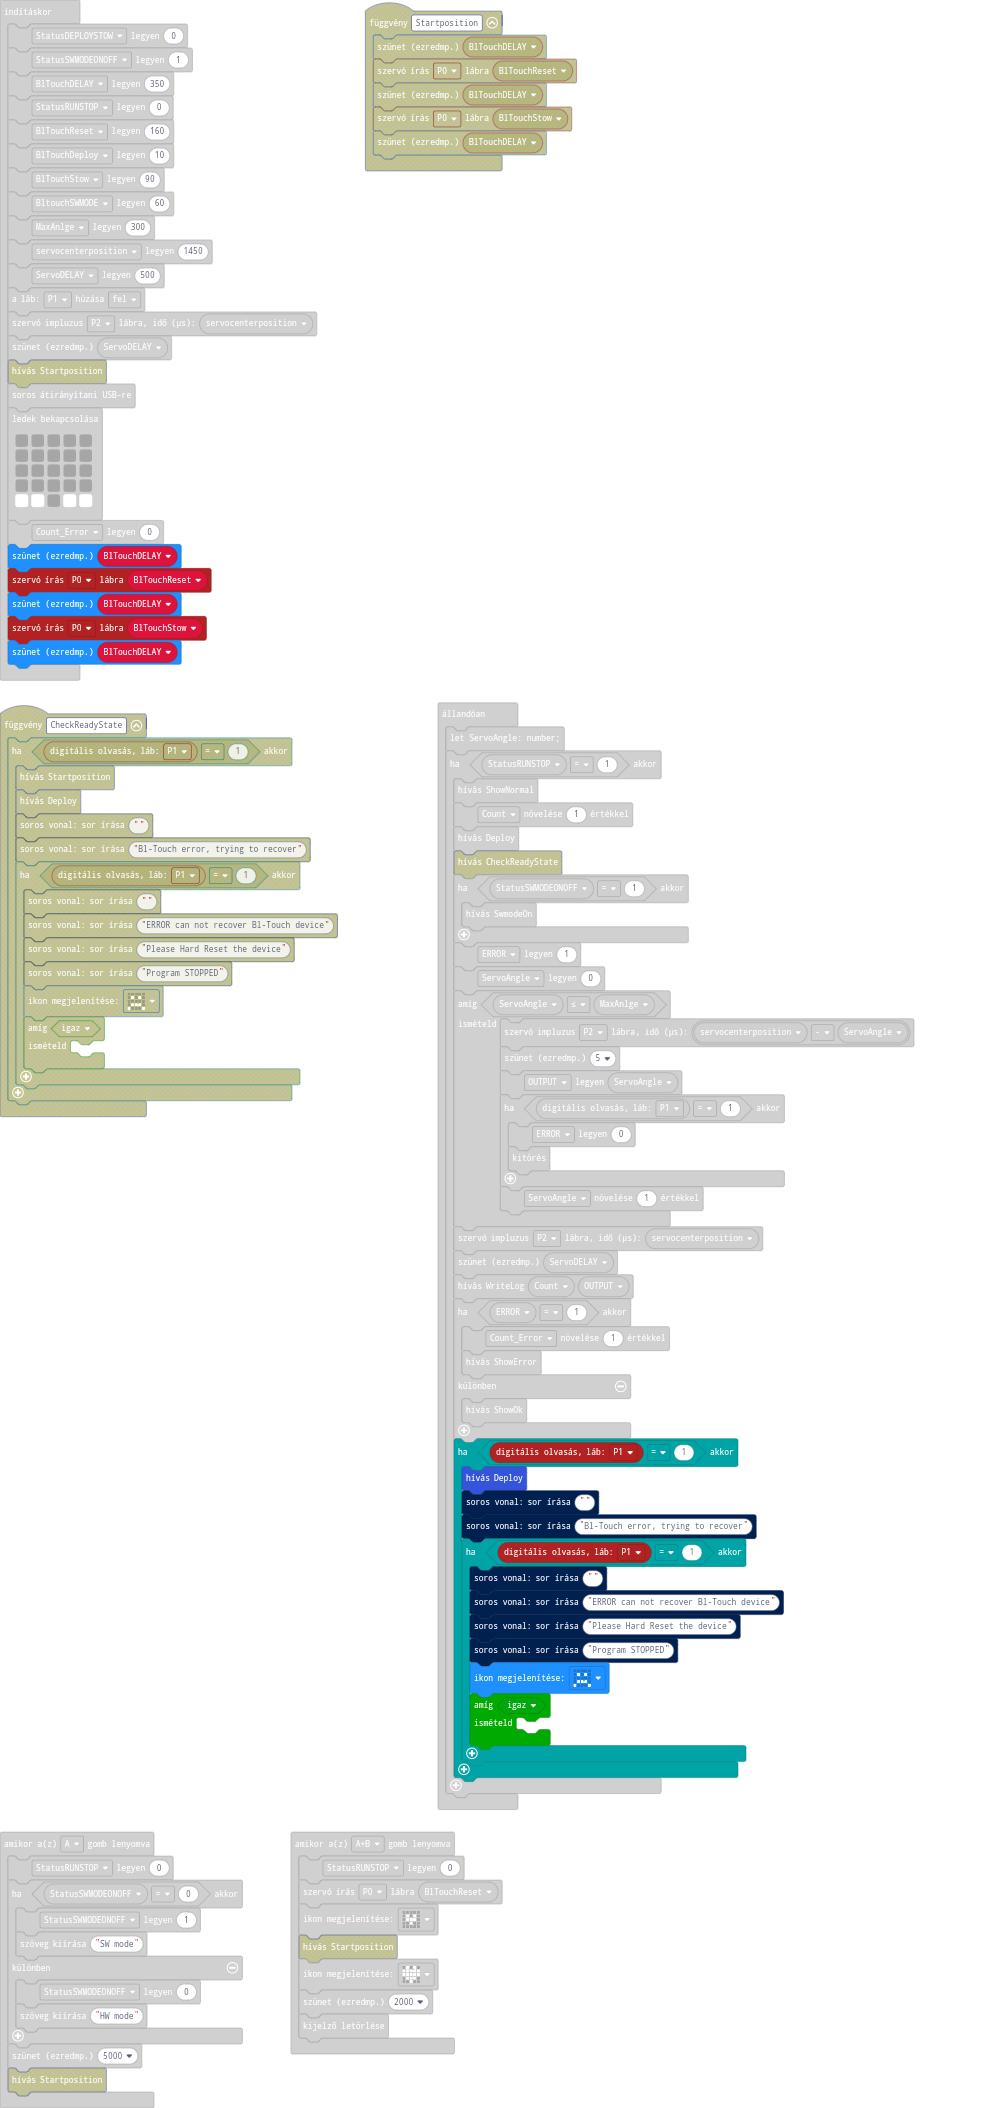
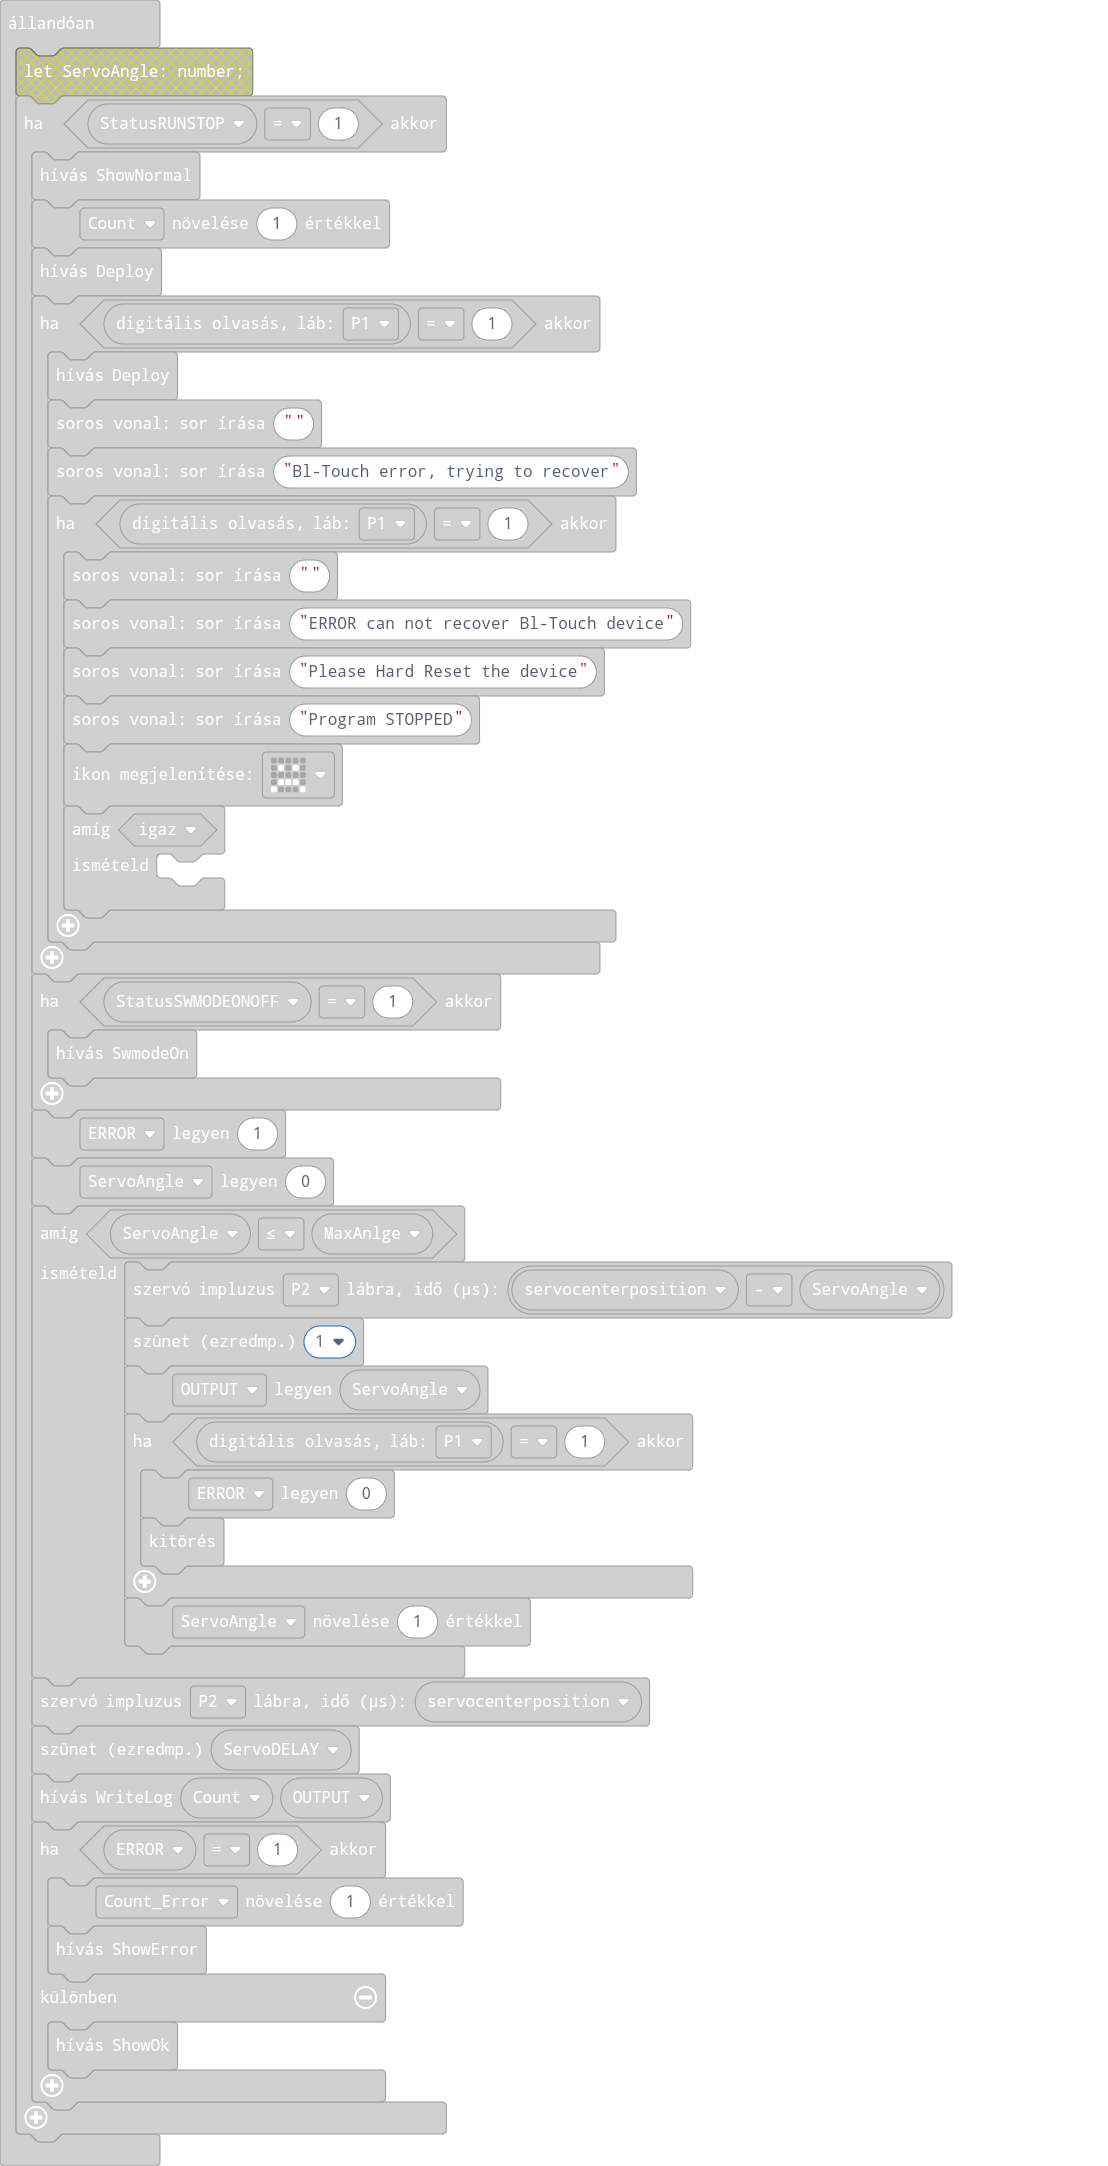
Update main.blocks, main.ts

diff --git a/main.ts b/main.ts
@@ -61,6 +61,7 @@ function WriteLog (Log_Line: number, Log_Angle: number) {
     serial.writeNumber(Log_Angle)
 }
 let OUTPUT = 0
+let ServoAngle = 0
 let ERROR = 0
 let Count = 0
 let Count_Error = 0
@@ -99,8 +100,7 @@ basic.showLeds(`
     `)
 Count_Error = 0
 basic.forever(function () {
-    let ServoAngle: number;
-if (StatusRUNSTOP == 1) {
+    if (StatusRUNSTOP == 1) {
         ShowNormal()
         Count += 1
         Deploy()
@@ -126,7 +126,7 @@ if (StatusRUNSTOP == 1) {
         ServoAngle = 0
         while (ServoAngle <= MaxAnlge) {
             pins.servoSetPulse(AnalogPin.P2, servocenterposition - ServoAngle)
-            basic.pause(5)
+            basic.pause(1)
             OUTPUT = ServoAngle
             if (pins.digitalReadPin(DigitalPin.P1) == 1) {
                 ERROR = 0
